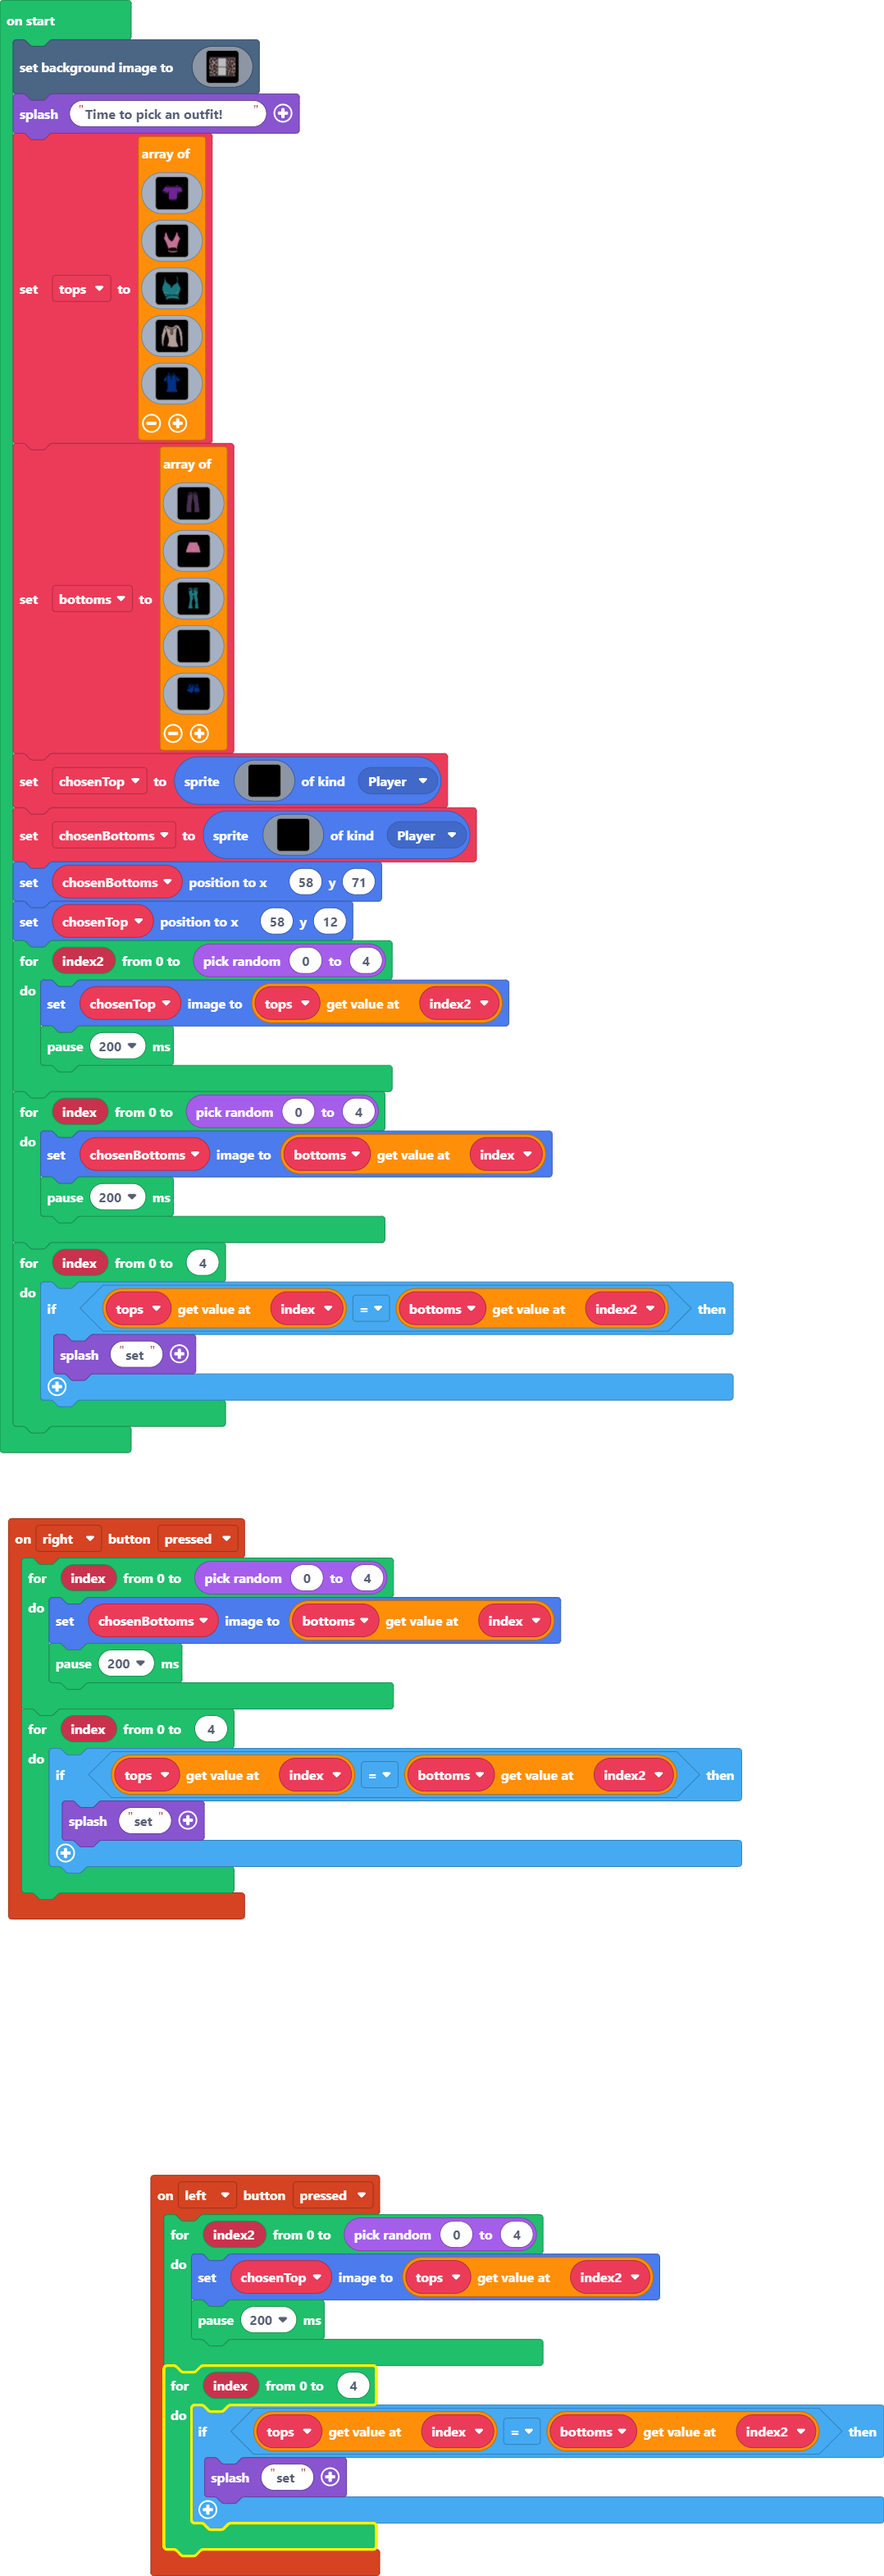
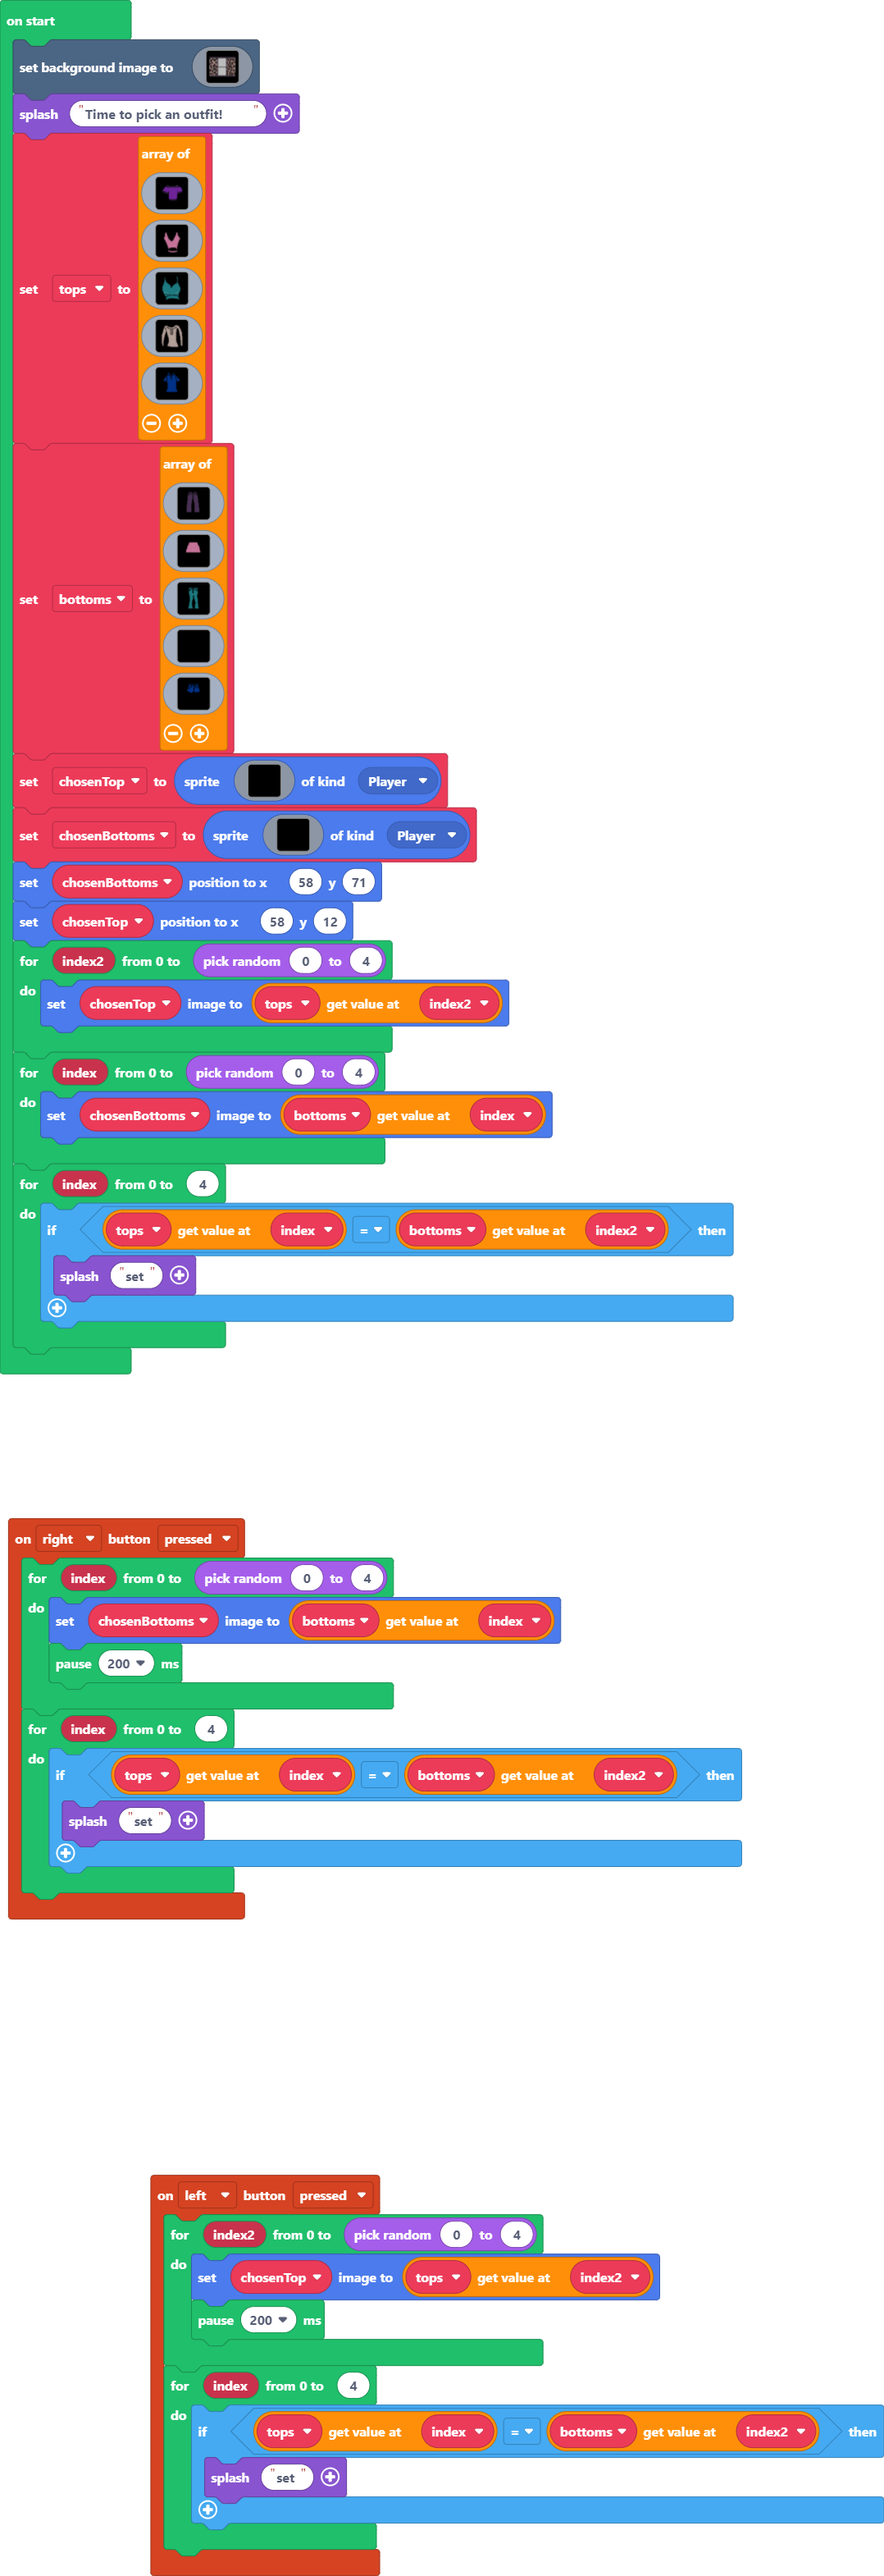
Update main.blocks, main.ts

diff --git a/main.ts b/main.ts
@@ -712,11 +712,9 @@ chosenBottoms.setPosition(58, 71)
 chosenTop.setPosition(58, 12)
 for (let index2 = 0; index2 <= randint(0, 4); index2++) {
     chosenTop.setImage(tops[index2])
-    pause(200)
 }
 for (let index = 0; index <= randint(0, 4); index++) {
     chosenBottoms.setImage(bottoms[index])
-    pause(200)
 }
 for (let index = 0; index <= 4; index++) {
     if (tops[index] == bottoms[index2]) {
